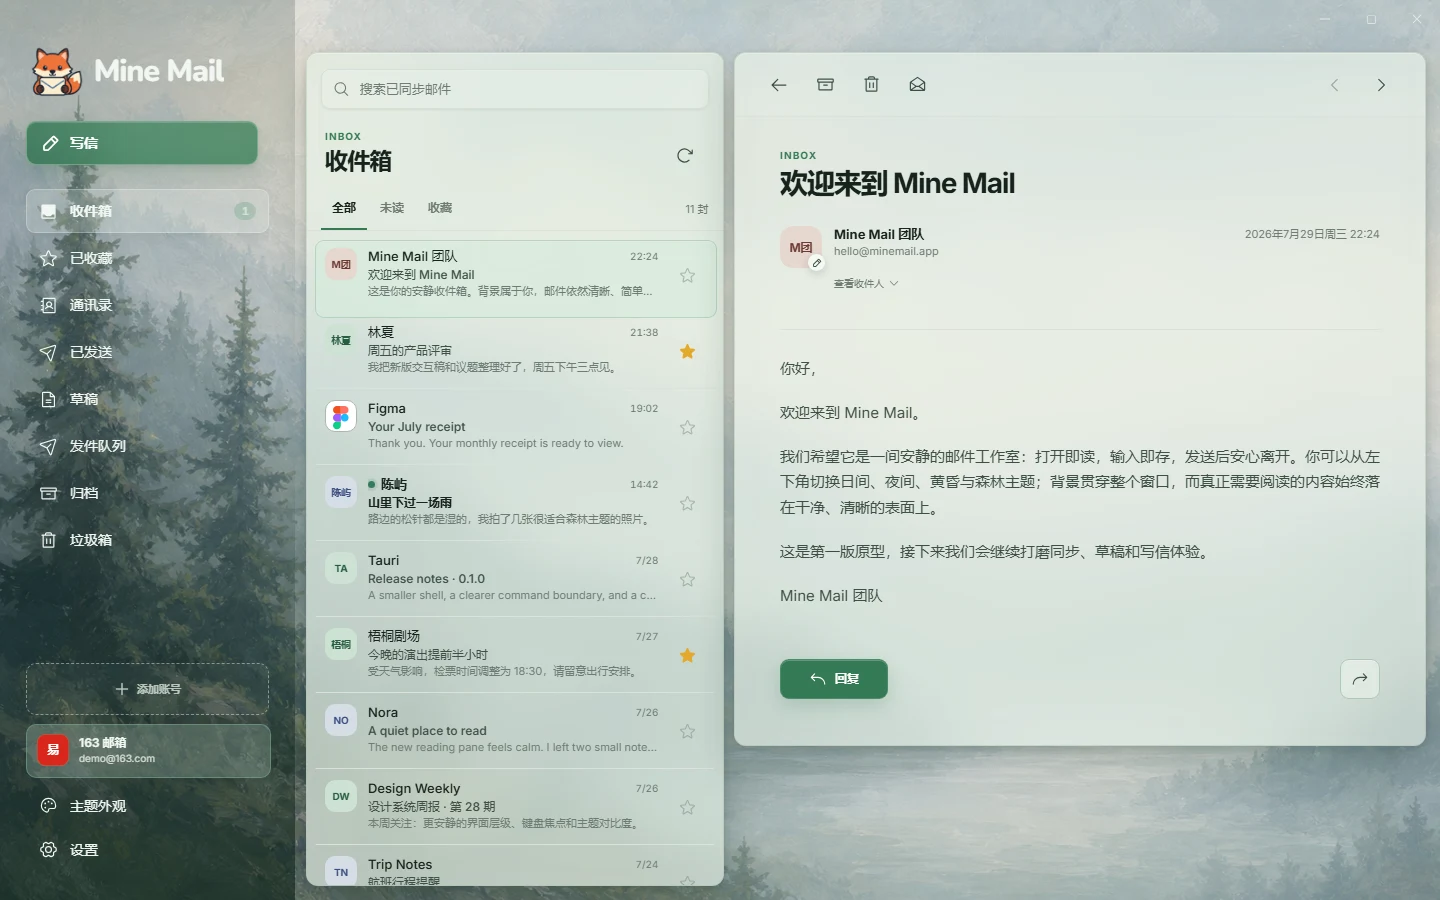
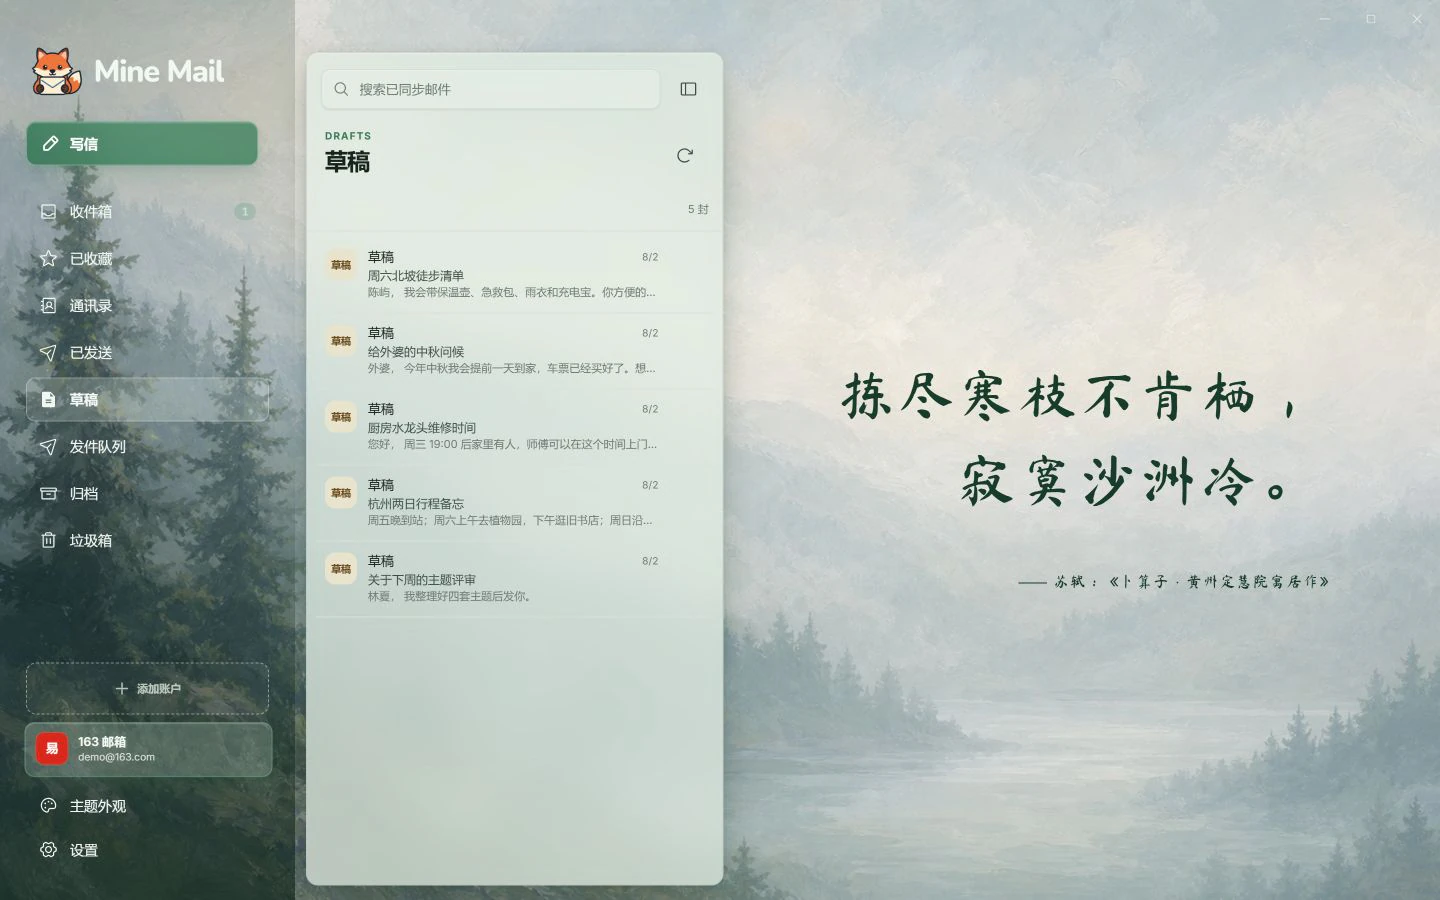
docs: 更新 README 主题截图

diff --git a/web/src/data/demoMail.js b/web/src/data/demoMail.js
@@ -97,9 +97,9 @@ export const demoMessages = [
     cc: [],
     sent_at: minutesAgo(2880),
     flags: ["\\Seen", "\\Flagged"],
-    preview: "受天气影响，检票时间调整为 18:30，请留意出行安排。",
+    preview: "受暴雨预警影响，今晚检票调整为 18:30，原座位和电子票保持有效。",
     body_text:
-      "您好，\n\n受天气影响，今晚的演出将提前半小时开始，检票时间调整为 18:30。原座位及电子票保持有效。\n\n感谢理解。",
+      "您好，\n\n受暴雨预警影响，今晚《月光奏鸣曲》音乐会将提前半小时开始：18:30 开始检票，19:00 正式开演。您的原座位和电子票二维码保持有效，无需换票。\n\n如无法按调整后的时间到场，可在今天 16:00 前通过原购票渠道申请改签到周日场次。剧场地下停车场可能临时限流，建议优先乘坐公共交通。\n\n祝观演愉快，\n梧桐剧场票务中心",
     attachment_names: [],
     body_fetched: true,
     size_bytes: 76000,
@@ -186,9 +186,128 @@ export const demoMessages = [
     size_bytes: 19000,
     mailbox: "INBOX",
   },
+  {
+    id: "demo-message-12",
+    uid: 10803,
+    subject: "周六北坡徒步",
+    sender: { name: "陈屿", email: "chenyu@example.com" },
+    to: [{ name: "你", email: "demo@163.com" }],
+    cc: [],
+    sent_at: minutesAgo(180),
+    flags: ["\\Seen"],
+    preview: "我查过天气了，上午多云，北坡步道也已经重新开放。",
+    body_text:
+      "我查过天气了，上午多云，北坡步道也已经重新开放。\n\n我们还是按原计划七点半在地铁口碰面吧。我带地图和午餐，你看看还缺什么。",
+    attachment_names: ["北坡路线.gpx"],
+    body_fetched: true,
+    size_bytes: 96000,
+    mailbox: "INBOX",
+  },
+  {
+    id: "demo-sent-01",
+    uid: 3402,
+    subject: "Re: 山里下过一场雨",
+    sender: { name: "你", email: "demo@163.com" },
+    to: [{ name: "陈屿", email: "chenyu@example.com" }],
+    cc: [],
+    sent_at: minutesAgo(360),
+    flags: ["\\Seen"],
+    preview: "照片收到了，雨后的颜色很好看。周六如果放晴，我们去走北坡吧。",
+    body_text:
+      "照片收到了，雨后的颜色很好看。\n\n周六如果放晴，我们去走北坡吧。上次那条临溪的小路应该也能通了。",
+    attachment_names: [],
+    body_fetched: true,
+    size_bytes: 24000,
+    mailbox: "Sent",
+  },
+  {
+    id: "demo-sent-02",
+    uid: 3403,
+    subject: "Re: 周六北坡徒步",
+    sender: { name: "你", email: "demo@163.com" },
+    to: [{ name: "陈屿", email: "chenyu@example.com" }],
+    cc: [],
+    sent_at: minutesAgo(90),
+    flags: ["\\Seen"],
+    preview: "好，我带保温壶、急救包和两件一次性雨衣，七点半地铁口见。",
+    body_text:
+      "好，我带保温壶、急救包和两件一次性雨衣。\n\n七点半地铁口见，出发前我再看一遍天气预警。",
+    attachment_names: [],
+    body_fetched: true,
+    size_bytes: 22000,
+    mailbox: "Sent",
+  },
 ];
 
 export const demoDrafts = [
+  {
+    id: "draft-hiking-list",
+    local_version: 1,
+    has_unsupported_content: false,
+    to: ["chenyu@example.com"],
+    cc: [],
+    bcc: [],
+    subject: "周六北坡徒步清单",
+    body_text: "陈屿，\n\n我会带保温壶、急救包、雨衣和充电宝。你方便的话带一下纸质地图。",
+    format: {
+      body_html: null,
+      stationery: "none",
+      send_stationery: false,
+    },
+    updated_at: minutesAgo(12),
+    status: "local",
+  },
+  {
+    id: "draft-family-letter",
+    local_version: 2,
+    has_unsupported_content: false,
+    to: ["waipo@example.com"],
+    cc: [],
+    bcc: [],
+    subject: "给外婆的中秋问候",
+    body_text: "外婆，\n\n今年中秋我会提前一天到家，车票已经买好了。想吃什么菜，记得先告诉我。",
+    format: {
+      body_html: null,
+      stationery: "lined",
+      send_stationery: false,
+    },
+    updated_at: minutesAgo(48),
+    status: "local",
+  },
+  {
+    id: "draft-repair-time",
+    local_version: 1,
+    has_unsupported_content: false,
+    to: ["property@example.com"],
+    cc: [],
+    bcc: [],
+    subject: "厨房水龙头维修时间",
+    body_text: "您好，\n\n周三 19:00 后家里有人，师傅可以在这个时间上门。到楼下请先电话联系。",
+    format: {
+      body_html: null,
+      stationery: "none",
+      send_stationery: false,
+    },
+    updated_at: minutesAgo(95),
+    status: "local",
+  },
+  {
+    id: "draft-hangzhou-notes",
+    local_version: 1,
+    has_unsupported_content: false,
+    to: [],
+    cc: [],
+    bcc: [],
+    subject: "杭州两日行程备忘",
+    body_text: "周五晚到站；周六上午去植物园，下午逛旧书店；周日沿运河散步，傍晚返程。",
+    format: {
+      body_html: null,
+      stationery: "none",
+      send_stationery: false,
+    },
+    updated_at: minutesAgo(140),
+    status: "local",
+  },
   {
     id: "draft-welcome",
     local_version: 1,

diff --git a/web/src/services/mailApi.test.js b/web/src/services/mailApi.test.js
@@ -902,6 +902,24 @@ describe("mailApi desktop IPC contract", () => {
     expect(inbox.items[0]).not.toHaveProperty("uid");
     expect(inbox.items[0]).not.toHaveProperty("body_text");
 
+    const contacts = await mailApi.listContacts("demo-primary");
+    expect(contacts.contacts).toContainEqual(
+      expect.objectContaining({
+        email: "chenyu@example.com",
+        displayName: "陈屿",
+        messageCount: 4,
+      }),
+    );
+    const correspondence = await mailApi.listContactMessages(
+      "demo-primary",
+      "chenyu@example.com",
+      10,
+    );
+    expect(correspondence).toHaveLength(4);
+    expect(correspondence.map((message) => message.direction)).toEqual(
+      expect.arrayContaining(["incoming", "outgoing"]),
+    );
+
     const firstStarredPage = await mailApi.listStarredMailboxPage(
       "demo-primary",
       "inbox",
